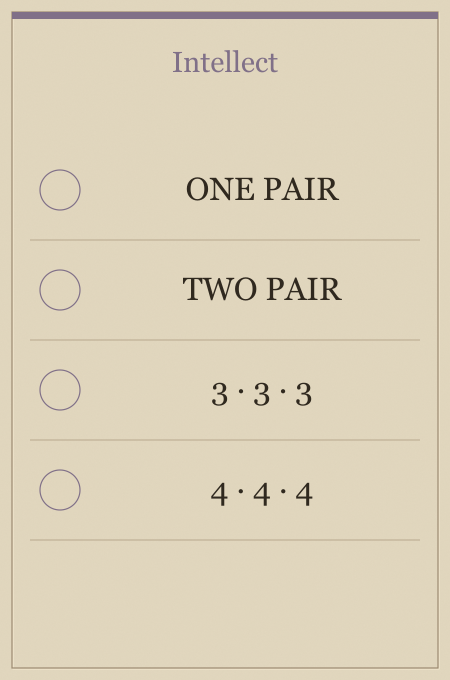
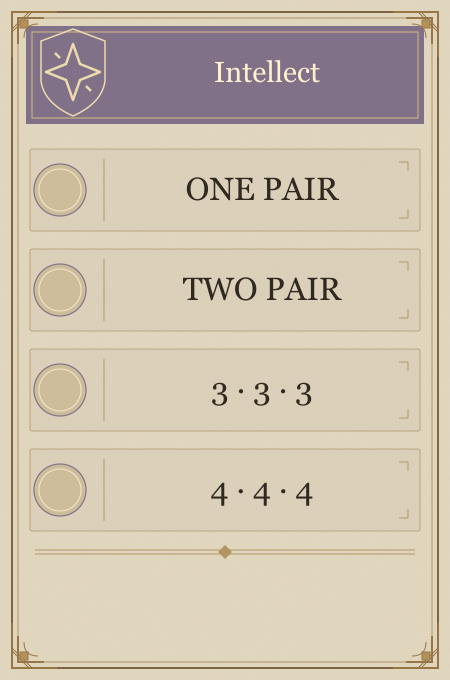
Restore heraldic print ornaments and brass tray fittings

Changed region(s): [[0.0, 0.0, 0.9956, 0.9882]]

diff --git a/tools/print.ts b/tools/print.ts
@@ -17,23 +17,35 @@ const text = (
   extra = "",
 ) =>
   `<text x="${x}" y="${y}" text-anchor="middle" font-family="Georgia, serif" font-size="${size}" fill="${color}" ${extra}>${esc(s)}</text>`;
+const corner = (x: number, y: number, sx: number, sy: number) =>
+  `<g transform="translate(${x} ${y}) scale(${sx} ${sy})" fill="none" stroke="#987546"><path d="M0 45V0H45M6 32V6H32" stroke-width="2"/><path d="M12 26Q12 12 26 12M0 17 17 0M20 0 0 20"/><path d="M8 8h8v8H8Z" fill="#b29259"/></g>`;
 const wrap = (w: number, h: number, body: string) =>
-  `<svg xmlns="http://www.w3.org/2000/svg" width="${w}" height="${h}" viewBox="0 0 ${w} ${h}"><defs><filter id="paper"><feTurbulence type="fractalNoise" baseFrequency=".62" numOctaves="3" seed="17"/><feColorMatrix type="saturate" values="0"/></filter></defs><rect width="100%" height="100%" fill="#e1d6bd"/><rect width="100%" height="100%" filter="url(#paper)" opacity=".035"/><rect x="13" y="13" width="${w - 24}" height="${h - 24}" fill="none" stroke="#fff4da" stroke-width="1" stroke-opacity=".7"/><rect x="12" y="12" width="${w - 24}" height="${h - 24}" fill="none" stroke="#9b8a70" stroke-width="1.2"/>${body}</svg>`;
+  `<svg xmlns="http://www.w3.org/2000/svg" width="${w}" height="${h}" viewBox="0 0 ${w} ${h}"><defs><filter id="paper"><feTurbulence type="fractalNoise" baseFrequency=".62" numOctaves="3" seed="17"/><feColorMatrix type="saturate" values="0"/></filter></defs><rect width="100%" height="100%" fill="#e1d6bd"/><rect width="100%" height="100%" filter="url(#paper)" opacity=".035"/><rect x="12" y="12" width="${w - 24}" height="${h - 24}" fill="none" stroke="#806543" stroke-width="2"/><rect x="18" y="18" width="${w - 36}" height="${h - 36}" fill="none" stroke="#ae9365"/>${body}${corner(12,12,1,1)}${corner(w-12,12,-1,1)}${corner(12,h-12,1,-1)}${corner(w-12,h-12,-1,-1)}</svg>`;
+const crest = (g: number) => {
+  const paths = [
+    'M0-26 7-17 4 9H-4L-7-17ZM-15 11H15M0 11V28M-7 28H7',
+    'M-12-27Q28 0-12 27M-12-27V27M-23 0H25M17-7 25 0 17 7',
+    'M0-28 7-8 27 0 7 8 0 28-7 8-27 0-7-8ZM-18-19-13-14M18 19 13 14',
+  ];
+  return `<g transform="translate(73 72)" stroke="#eddbad" fill="none"><path d="M0-43 32-31V9Q29 31 0 44Q-29 31-32 9V-31Z" stroke-width="1.5"/><path d="${paths[g]}" stroke-width="2.5" stroke-linejoin="round"/></g>`;
+};
 const roleSize = 32;
 const headingSize = 29;
 {
   const layout = makeLayout();
   const d = layout.dungeon;
   const dw = Math.round(d.width * 100), dh = Math.round(d.depth * 100);
-  let body = text(268, 65, "DUNGEON", headingSize);
+  let body = `<path d="M26 26H${dw-26}V112H26Z" fill="#554d40"/><path d="M32 32H${dw-32}V106H32Z" fill="none" stroke="#bb9b62"/>` + text(dw / 2, 78, "DUNGEON", headingSize, "#f0dfb9");
   layout.slots.filter((s) => s.group === "dungeon").forEach((s, i, floors) => {
     const y = (s.z - d.z + d.depth / 2) * 100;
-    if (i > 0) {
-      const line = ((s.z + floors[i - 1].z) / 2 - d.z + d.depth / 2) * 100;
-      body += `<path d="M30 ${line}H${dw - 30}" stroke="#b7a88d" stroke-width="1"/>`;
+    if (i < 4) body += `<path d="M90 ${y+35}V${y+133}" stroke="#ae9365" stroke-width="2" stroke-dasharray="2 7"/>`;
+    body += `<path d="M137 ${y+66}V${y-32}Q260 ${y-115} ${dw-28} ${y-32}V${y+66}Z" fill="#c3af8c" stroke="#967c56" stroke-width="2"/><path d="M149 ${y+57}V${y-26}Q260 ${y-97} ${dw-40} ${y-26}V${y+57}Z" fill="#e5d9bd" stroke="#a48b63"/>`;
+    for (const side of [137, dw-40]) {
+      for (let j=0;j<3;j++) body += `<path d="M${side} ${y-8+j*25}h12" stroke="#967c56"/>`;
     }
-    body += text(90, y - 27, s.label, 18, "#76664f");
-    body += `<circle cx="90" cy="${y}" r="24" fill="none" stroke="#b7a88d" stroke-width="1"/>`;
+    body += `<path d="M250 ${y-71} 254 ${y-54}H266L270 ${y-71}Z" fill="#aa8750" stroke="#967c56"/>`;
+    body += text(90, y - 41, s.label, 18, "#76664f");
+    body += `<circle cx="90" cy="${y}" r="29" fill="#c9b995" stroke="#967c56"/><circle cx="90" cy="${y}" r="24" fill="none" stroke="#f2e4c4"/>`;
     if (i < 4) body += text(260, y + 10, s.mark, roleSize);
     else body += text(260, y - 6, "FIVE OF", roleSize) + text(260, y + 31, "A KIND", roleSize);
   });
@@ -43,15 +55,16 @@ const headingSize = 29;
   for (const [g, group] of GROUPS.entries()) {
     const board = layout.abilities[g];
     const w = Math.round(board.width * 100), h = Math.round(board.depth * 100);
-    let b = `<rect x="12" y="12" width="${w - 24}" height="7" fill="${COLORS[group]}"/>`;
-    b += text(w / 2, 72, ["Strength", "Dexterity", "Intellect"][g], headingSize, COLORS[group]);
+    let b = `<rect x="26" y="26" width="${w-52}" height="98" fill="${COLORS[group]}"/><rect x="32" y="32" width="${w-64}" height="86" fill="none" stroke="#d5bb83" stroke-width="1"/>${crest(g)}`;
+    b += text(267, 82, ["Strength", "Dexterity", "Intellect"][g], headingSize, "#fff0cf");
     layout.slots.filter((s) => s.group === group).forEach((s) => {
       const x = (s.x - board.x + board.width / 2) * 100;
       const y = (s.z - board.z + board.depth / 2) * 100;
       const mark = (markerX(s) - board.x + board.width / 2) * 100;
-      b += `<path d="M${x - 195} ${y + 50}H${x + 195}" stroke="#b7a88d" stroke-width="1"/><circle cx="${mark}" cy="${y}" r="20" fill="none" stroke="${COLORS[group]}" stroke-width="1.2"/>`;
+      b += `<rect x="30" y="${y-41}" width="${w-60}" height="82" rx="2" fill="${COLORS[group]}" fill-opacity=".055" stroke="#b9a680"/><path d="M104 ${y-31}V${y+31}M${w-42} ${y-28}h-9M${w-42} ${y-28}v9M${w-42} ${y+28}h-9M${w-42} ${y+28}v-9" fill="none" stroke="#af9668"/><circle cx="${mark}" cy="${y}" r="26" fill="#cdbd9a" stroke="${COLORS[group]}" stroke-width="1.2"/><circle cx="${mark}" cy="${y}" r="21" fill="none" stroke="#f6e9ca"/>`;
       b += text(x + 37, y + 10, s.mark, roleSize);
     });
+    b += `<path d="M35 550H${w-35}M35 554H${w-35}" stroke="#b19665"/><path d="M${w/2-7} 552l7-7 7 7-7 7Z" fill="#b19665"/>`;
     const svg = wrap(w, h, b);
     await fs.writeFile(`art/${group}.svg`, svg);
     await sharp(Buffer.from(svg)).png().toFile(`${out}/${group}.png`);

diff --git a/src/scene.ts b/src/scene.ts
@@ -395,6 +395,19 @@ export class DungeonScene {
         group.add(this.box(tray.railWidth, tray.railHeight, tray.depth,
           tray.x + sign * (tray.width + tray.railWidth) / 2, tray.railHeight / 2, tray.z, rail, 0.035));
       }
+      const brass = new THREE.MeshStandardMaterial({ color: "#b39860", metalness: 0.65, roughness: 0.36 });
+      for (const sign of [-1, 1]) {
+        group.add(this.box(tray.width, 0.009, 0.026, tray.x, tray.railHeight + 0.001,
+          tray.z + sign * (tray.depth + tray.railWidth) / 2, brass));
+        group.add(this.box(0.026, 0.009, tray.depth, tray.x + sign * (tray.width + tray.railWidth) / 2,
+          tray.railHeight + 0.001, tray.z, brass));
+        for (const side of [-1, 1]) {
+          const x = tray.x + side * (tray.width + tray.railWidth) / 2;
+          const z = tray.z + sign * (tray.depth + tray.railWidth) / 2;
+          group.add(this.box(0.5, 0.016, 0.13, x - side * 0.18, tray.railHeight + 0.004, z, brass, 0.012));
+          group.add(this.box(0.13, 0.016, 0.5, x, tray.railHeight + 0.004, z - sign * 0.18, brass, 0.012));
+        }
+      }
       this.world.add(group);
     }
     for (let i = 0; i < 5; i++) {
